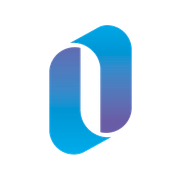
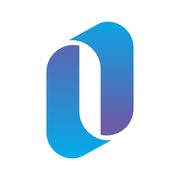
fix: 모바일 홈 화면 아이콘 교체 (#575)

Changed region(s): [[0.25, 0.1111, 0.75, 0.8889]]

diff --git a/frontend/docs/reviews/2026-11-10-frontend-mobile-home-icon.md b/frontend/docs/reviews/2026-11-10-frontend-mobile-home-icon.md
@@ -1,0 +1,22 @@
+# 모바일 홈 화면 아이콘 교체
+
+작업 ID `2026-11-10-frontend-mobile-home-icon` · 평가일 2026-11-10 · 프론트엔드 · 평가표 v1 · 관련 이슈 #574.
+
+확정한 흰 배경의 원본 심볼 시안을 기존 Next.js 아이콘 경로에 적용했다.
+
+| ID | 흐름·실패 조건 | 기대 결과 | 검증 근거 | 필수 | 결과 |
+| --- | --- | --- | --- | --- | --- |
+| I01 | 이미지 준비 중 비율·색·배경이 달라짐 | 확정 시안의 180×180·512×512 RGB PNG | 원본의 리사이즈 결과와 두 파일의 RGB 픽셀이 동일하고 모서리는 흰색 | 예 | PASS |
+| I02 | 페이지가 예전 아이콘을 가리키거나 새 파일을 내려주지 못함 | 아이콘 메타데이터와 새 이미지 응답이 일치 | 로컬 production 빌드에서 `/`의 iPhone Safari·Android Chrome UA 모두 `apple-touch-icon` 180×180과 `icon` 512×512에 새 버전 문자열을 제공했다. 두 URL은 HTTP 200이며 응답은 소스와 바이트 단위로 일치했다. | 예 | PASS |
+| I03 | 기존 파비콘 파일 또는 기본 주소가 바뀜 | `favicon.ico`와 메타데이터 주소 유지 | Git blob은 HEAD와 동일하고 `/favicon.ico?favicon.31ip666af-9zx.ico` 응답도 원본과 일치 | 예 | PASS |
+| I04 | 불필요한 자산·설정·의존성·문서가 추가됨 | 사용 중인 아이콘 경로와 관련 정본만 갱신 | Next.js 메타데이터와 빌드가 두 PNG를 사용한다. 디자인 시스템 문서의 파일명·크기를 대조했고 `git diff --check`가 통과했다. | 예 | PASS |
+| I05 | 실제 홈 화면에서 새 아이콘을 선택하지 않거나 예전 아이콘이 남음 | 새 홈 화면 추가에서 교체된 심볼 표시 | 실기기에서 추가와 기존 아이콘 갱신을 실행하지 않았다. UA별 HTTP 검증은 서버 응답까지만 확인한다. | 예 | UNVERIFIED |
+
+`npm run lint`와 `npm run build`가 통과했다. 로컬에 없던 `zxing-wasm` 등 기존 잠금 파일의 의존성을 설치한 뒤 빌드를 재실행했다. 제한된 환경에서 멈춘 빌드는 외부 실행으로 통과했고, 복수 잠금 파일 경고가 남았다.
+
+Claude CLI를 사용할 수 없어 별도 에이전트가 읽기 전용 독립 평가를 1회 수행했다. 평가자는 빌드 HTML의 메타데이터, 아이콘 바이너리, 변경 범위와 문서를 독립적으로 확인했다.
+
+필수 PASS 4 / FAIL 0 / UNVERIFIED 1 / N/A 0. 검증률 4/5. 실기기 표시 확인을 남겨 둔 조건부 결과다.
+신규 발견 0 / 해결 0 / 미해결 0 / P0 0 / P1 0 / P2 0 / P3 0 / 오탐 0.
+발견 경로 PRECHECK 0 / INDEPENDENT_REVIEW 0 / POST_FIX_CHECK 0 / EXTERNAL 0.
+확정 문제가 없어 문제 ID·상태 사건 이력은 없다.

diff --git a/frontend/docs/design-system.md b/frontend/docs/design-system.md
@@ -56,7 +56,7 @@
 
 ## 공개 서비스 화면
 
-- 로고는 슬로건 없는 워드마크 `public/images/yesulin-wordmark.png`를 쓰고, 탭·앱 아이콘은 워드마크의 파란 ㅇ을 쓴다. 원본 SVG를 받기 전 임시 PNG다.
+- 로고는 슬로건 없는 워드마크 `public/images/yesulin-wordmark.png`를 쓴다. 홈 화면에 추가할 때는 흰 배경에 원본 심볼을 넣은 `src/app/apple-icon.png`(180×180)와 `src/app/icon.png`(512×512)를 제공한다. 기본 파비콘 파일은 `src/app/favicon.ico`다.
 - 모든 영역의 예술in 로고는 서비스 메인 `/`으로 이동한다. 영역별 홈은 별도 메뉴로 접근한다.
 - 공고 상세는 기본 정보 → 첨부파일(있을 때) → 공고 본문 → 공연사 순서로 읽는다.
 
